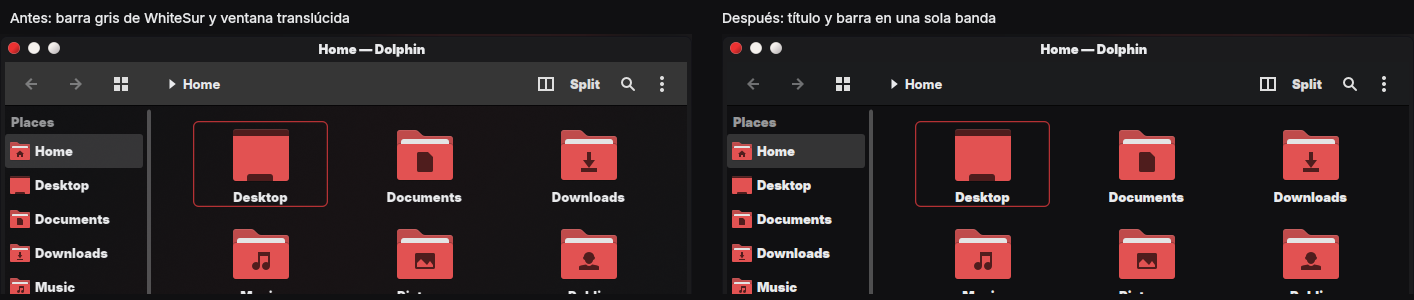
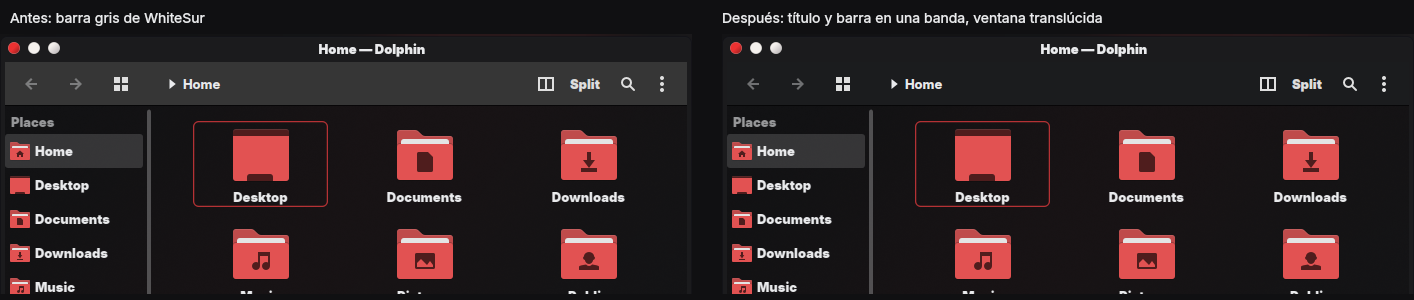
chore: regenera el sitio con la cabecera translúcida

diff --git a/sitio/_site/cambios.html b/sitio/_site/cambios.html
@@ -388,7 +388,7 @@ ul.task-list li input[type="checkbox"] {
 <section id="changed-1" class="level3">
 <h3 class="anchored" data-anchor-id="changed-1">Changed</h3>
 <ul>
-<li><strong>Título y barra de herramientas en una sola banda</strong> (mejora 12, decisiones 4.18): en el oscuro, Kvantum pinta ventanas sólidas y la barra de herramientas en el gris de la ventana, el mismo que el título de la decoración (<code>complementos/kvantum/ajustes.json</code>); el claro no cambia.</li>
+<li><strong>Título y barra de herramientas en una sola banda</strong> (mejora 12, decisiones 4.18): en el oscuro, Kvantum pinta la barra de herramientas (y con ella la de menús) opaca en el gris de la ventana, el mismo que el título de la decoración; el resto de la ventana sigue translúcido (<code>complementos/kvantum/ajustes.json</code>); el claro no cambia.</li>
 <li><strong>Dock de Lliphi</strong> (mejora 11, decisiones 4.17): fondo de paneles del oscuro más opaco (88 %, gris de la ventana) y sin la sombra que manchaba las puntas; mosaicos de tareas propios (fondito claro tras cada aplicación, la activa teñida del acento con su barra) y paginador de números con un trazo encima (acento en el activo), desde <code>modulos/estilo/ajustes.json</code>; el dock suma el paginador. <code>sesion.py arrancar --escritorios N</code> y un reintento si el shell recién arrancado aún escribía su configuración.</li>
 </ul>
 </section>
